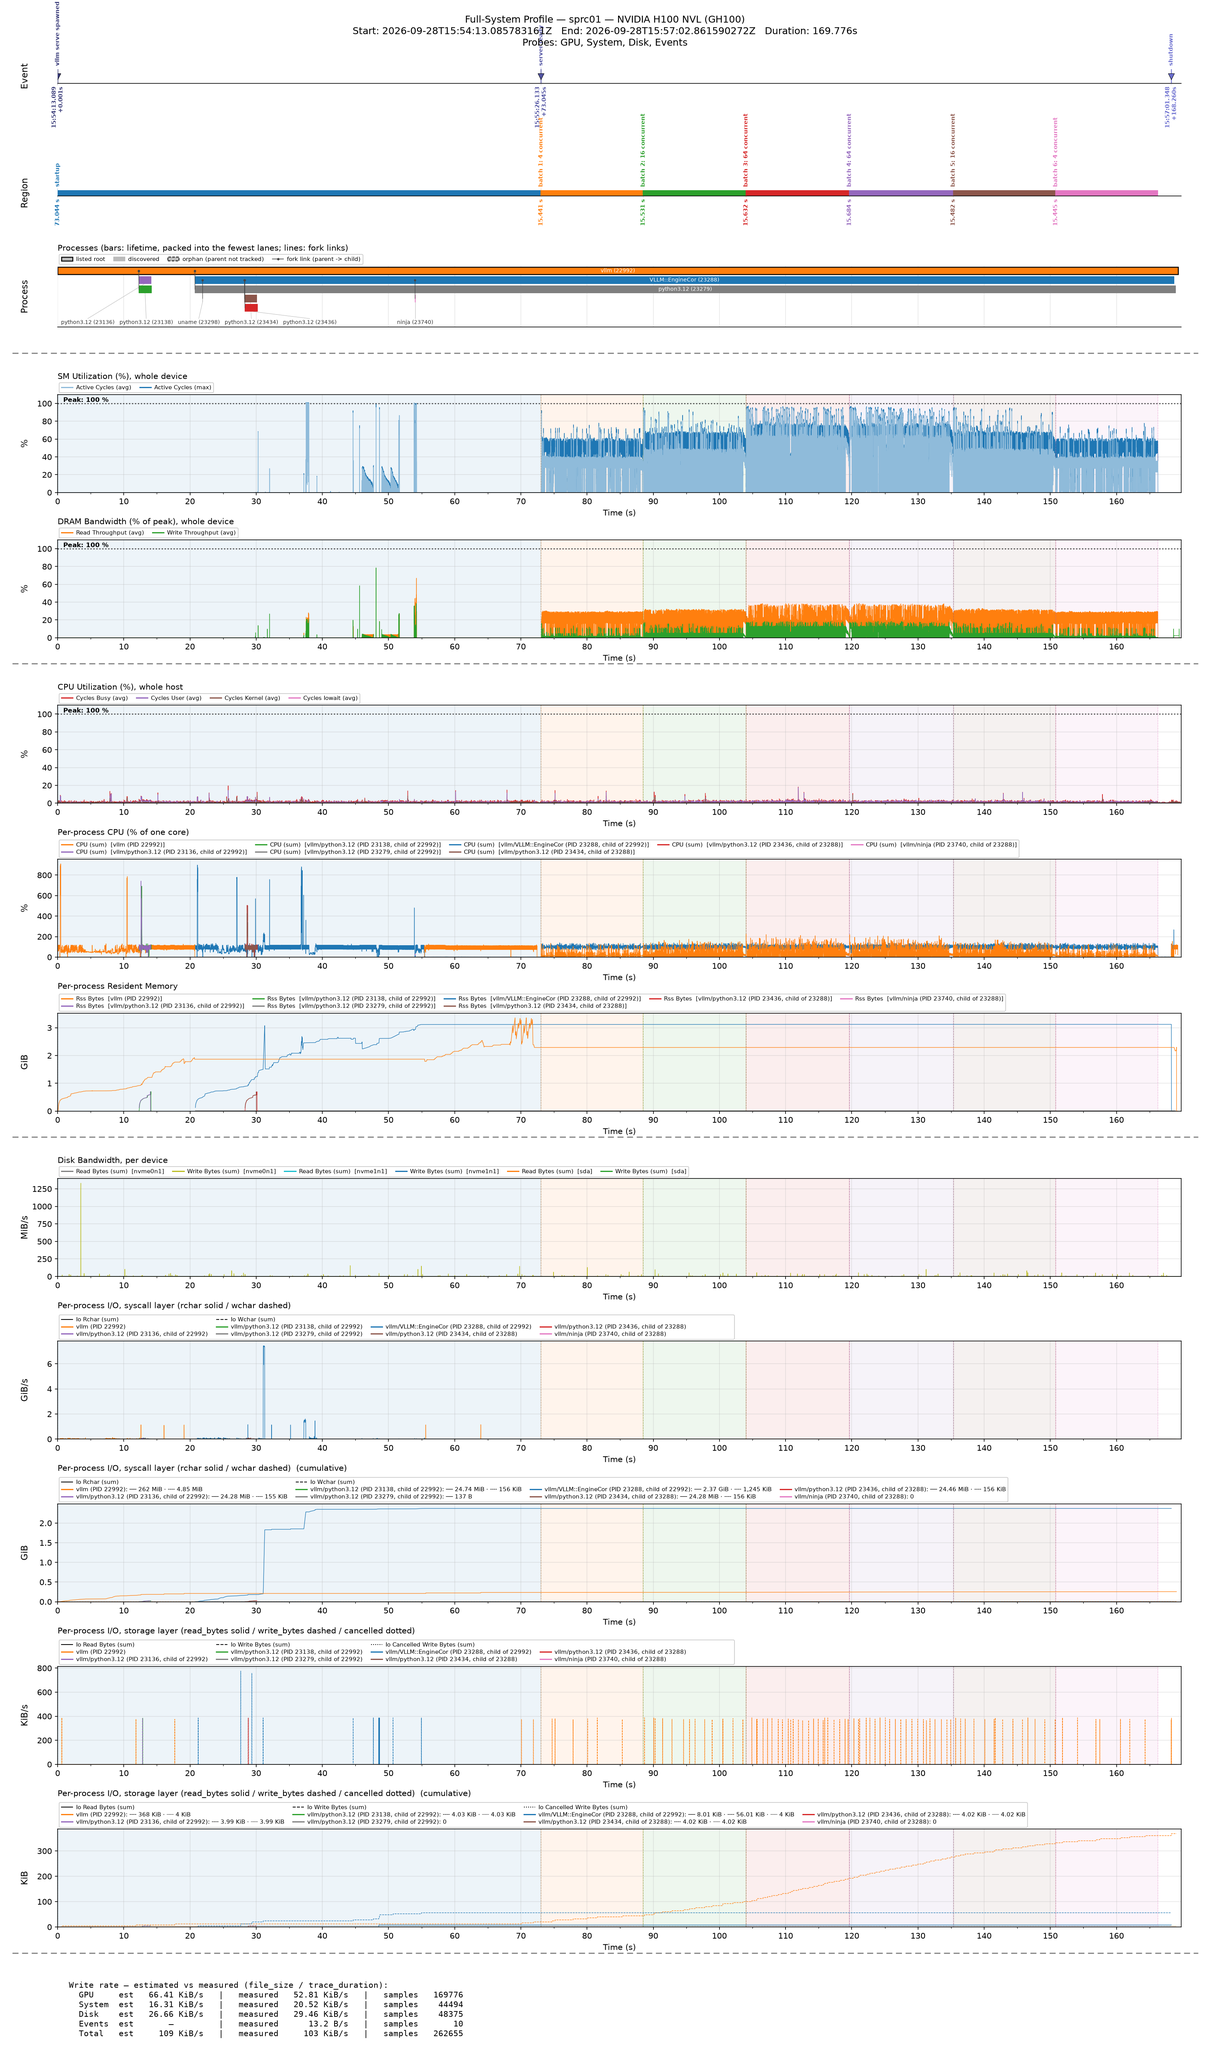
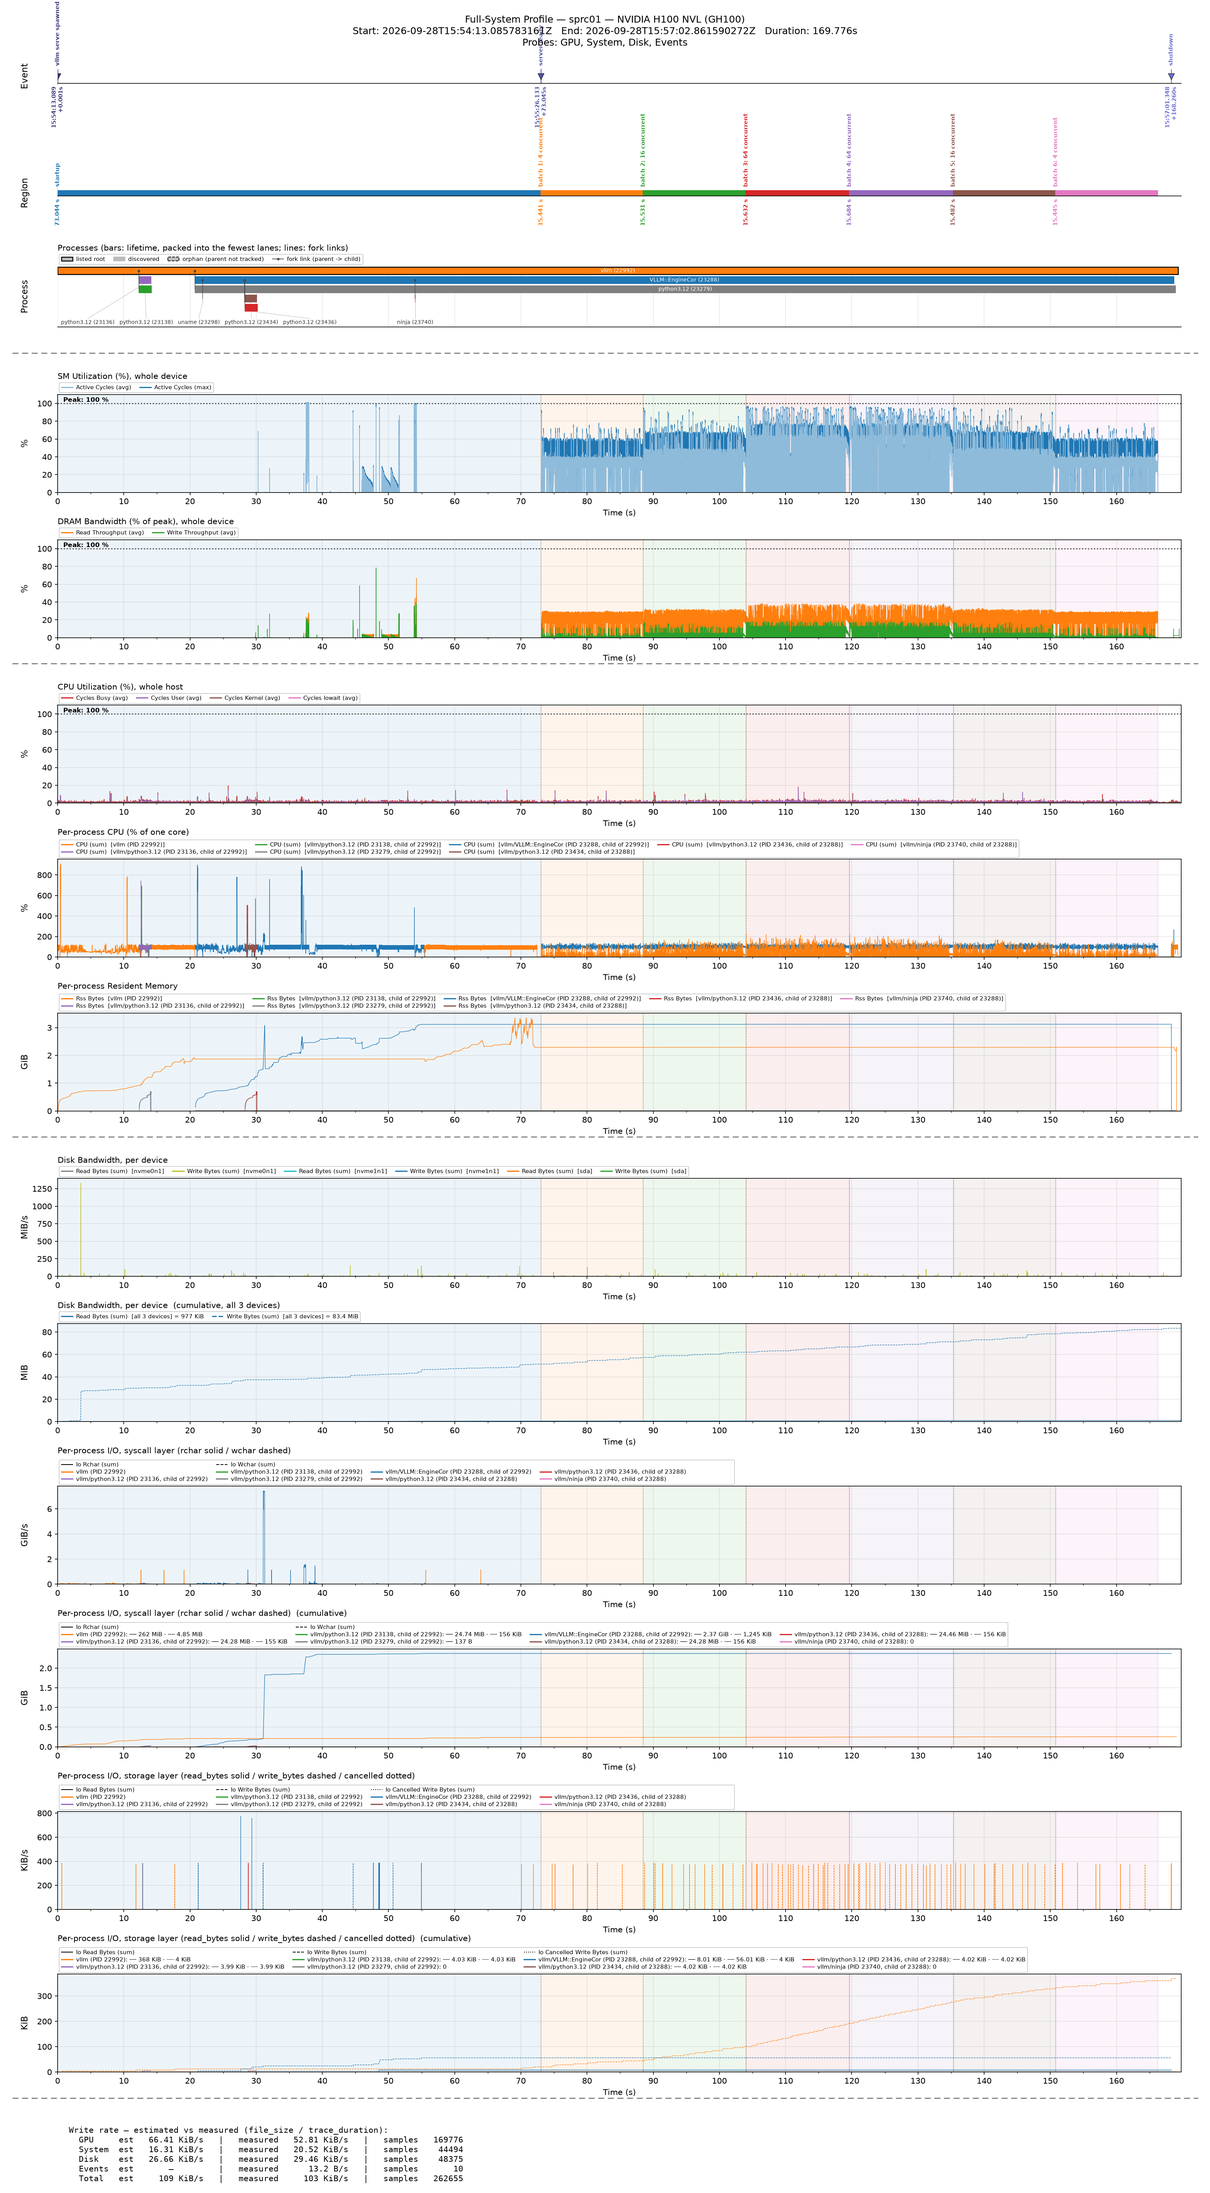
feat(viz): disk bandwidth's cumulative companion, summed over devices
A new panel aggregation, PANEL_AGGREGATION_INTEGRATE_SUM: each metric's
series summed over their instances on the union of their sample times
(panel_legend.aggregate; a series is 0 outside its own span), then
integrated like the other cumulative companions (trapezoid, the byte
unit rule): one line per metric, one hue, told apart by line style,
run totals in the legend, titled "(cumulative, all N devices)". Both
shipped layouts use it for the disk bandwidth panel (read solid, write
dashed, all devices); the default layout's per-device cumulative
companion is replaced by it. Both renderers. Figures re-rendered.

Claude-Session: https://claude.ai/code/session_01KGtpen56WsVzwjUE2dwvzH

diff --git a/tools/visualize_all.py b/tools/visualize_all.py
@@ -451,13 +451,14 @@ def _plan_legend(panel, series_list: list[metric_layout.ResolvedSeries], kind: s
                  metric_colors: dict | None = None) -> _LegendPlan:
     """Colours and legend entries of one panel (panel_legend.plan); a
     cumulative companion's entries carry its run totals."""
-    if kind == "integrated":
+    if kind in ("integrated", "integrated_sum"):
         cums, _scale_fn, _ylabel = _integrated_axis(panel, series_list, projection)
         p = panel_legend.plan(series_list, projector, projection, pid_color_map,
                               totals={k: float(c[-1]) if c.size else 0.0
                                       for k, (_t, c) in cums.items()},
                               fmt_total=units.fmt_bytes,   # each total in its own unit
-                              metric_colors=metric_colors)
+                              metric_colors=metric_colors,
+                              aggregated=kind == "integrated_sum")
     else:
         p = panel_legend.plan(series_list, projector, projection, pid_color_map,
                               metric_colors=metric_colors)
@@ -596,6 +597,13 @@ def _render_metric_panel(
     ax.xaxis.set_minor_locator(ticker.AutoMinorLocator(2))
 
 
+def _cumulative_suffix(series_list, kind: str) -> str:
+    """'(cumulative)', or '(cumulative, all 6 devices)' for sums."""
+    if kind == "integrated_sum" and series_list:
+        return f"(cumulative, {series_list[0].scope_key})"
+    return "(cumulative)"
+
+
 def _render_integrated_panel(
     ax,
     panel,
@@ -607,8 +615,10 @@ def _render_integrated_panel(
     sample_freq_hz: float = 0.0,
     display_hz: float = 0.0,
     plan: _LegendPlan | None = None,
+    kind: str = "integrated",
 ) -> None:
-    """Companion to _render_metric_panel — plots ∫ y dt of each series.
+    """Companion to _render_metric_panel — plots ∫ y dt of each series
+    (kind "integrated_sum": of each metric summed over its instances).
 
     Uses the panel's source unit (descriptor.unit, possibly overridden
     by panel.unit_override) and looks up the integrated unit in
@@ -620,7 +630,7 @@ def _render_integrated_panel(
     if plan is None:
         plan = _plan_legend(panel, series_list, "integrated", projector, projection,
                             pid_color_map, _axes_width_pt(ax))
-    title = _panel_title(panel, series_list) + "  (cumulative)"
+    title = _panel_title(panel, series_list) + "  " + _cumulative_suffix(series_list, kind)
     ax.set_title(title, fontsize=10, loc="left", pad=plan.height_pt or None)
     ax.grid(True, alpha=0.3)
 
@@ -999,9 +1009,10 @@ def _write_legend_file(out_path: Path, png_path: Path,
     lines.append("")
     for panel, series_list, kind in resolved:
         title = panel.title or _panel_title(panel, series_list)
-        if kind == "integrated":
-            lines.append(f"## {title}  (cumulative)")
-            lines.append("  (companion panel — ∫ y dt of the entries above)")
+        if kind in ("integrated", "integrated_sum"):
+            lines.append(f"## {title}  {_cumulative_suffix(series_list, kind)}")
+            lines.append("  (companion panel — ∫ y dt of the entries above"
+                         + (", summed over their instances)" if kind == "integrated_sum" else ")"))
             lines.append("")
             continue
         lines.append(f"## {title}")
@@ -1277,7 +1288,8 @@ def build_figure(metadata, *, catalog=None, panel_layout=None,
             _log(f"  skip panel {panel.title!r}  (no matching series)")
             continue
         resolved.append((panel, series, "metric"))
-        if panel.aggregation == panels_pb.PANEL_AGGREGATION_INTEGRATE:
+        if panel.aggregation in (panels_pb.PANEL_AGGREGATION_INTEGRATE,
+                                 panels_pb.PANEL_AGGREGATION_INTEGRATE_SUM):
             src_unit = (panel.unit_override
                         if panel.unit_override != mc_pb.UNIT_UNSPECIFIED
                         else series[0].descriptor.unit)
@@ -1285,6 +1297,12 @@ def build_figure(metadata, *, catalog=None, panel_layout=None,
                 _log(f"  panel {panel.title!r}: aggregation INTEGRATE set "
                      f"but source unit {src_unit} has no integrated unit "
                      "mapping — skipping companion panel")
+            elif panel.aggregation == panels_pb.PANEL_AGGREGATION_INTEGRATE_SUM:
+                # Summed over instances first: series of their own.
+                sums, sum_proj = panel_legend.aggregate(series, proj)
+                proj.update(sum_proj)
+                if sums:
+                    resolved.append((panel, sums, "integrated_sum"))
             else:
                 resolved.append((panel, series, "integrated"))
     if not resolved:
@@ -1406,12 +1424,12 @@ def build_figure(metadata, *, catalog=None, panel_layout=None,
         for ax, (panel, series_list, kind), plan in zip(
                 metric_axes_by_group[group_key], groups[group_key],
                 plans_by_group[group_key]):
-            if kind == "integrated":
+            if kind in ("integrated", "integrated_sum"):
                 _render_integrated_panel(
                     ax, panel, series_list, projector, proj,
                     t0_ns=t0_ns, pid_color_map=pid_color_map,
                     sample_freq_hz=sample_freq_for[group_key],
-                    display_hz=display_hz, plan=plan)
+                    display_hz=display_hz, plan=plan, kind=kind)
                 continue
             _render_metric_panel(
                 ax, panel, series_list, projector, proj,

diff --git a/tools/visualize_interactive.py b/tools/visualize_interactive.py
@@ -732,7 +732,8 @@ def _panel_has_cumulative_companion(panel,
     warning) for non-integrable units — visualize_all.py logs the
     skip; here we keep the live-render path quiet since this gets
     called every tick."""
-    if panel.aggregation != panels_pb.PANEL_AGGREGATION_INTEGRATE:
+    if panel.aggregation not in (panels_pb.PANEL_AGGREGATION_INTEGRATE,
+                                 panels_pb.PANEL_AGGREGATION_INTEGRATE_SUM):
         return False
     if not series_list:
         return False
@@ -753,8 +754,10 @@ def _build_cumulative_panel(
     source_hzs: dict[tuple[str, object], float] | None = None,
     pid_colors: dict | None = None,
     metric_colors: dict | None = None,
+    aggregated: bool = False,
 ) -> tuple:
-    """Bokeh equivalent of visualize_all._render_integrated_panel.
+    """Bokeh equivalent of visualize_all._render_integrated_panel
+    (aggregated: the series are panel_legend.aggregate() sums).
 
     Returns (figure, cds_by_key) — same shape as _build_panel so the
     static / live machinery treats it like a regular panel for layout
@@ -795,7 +798,8 @@ def _build_cumulative_panel(
 
     tools, box_zoom, wheel_zoom = _make_plot_tools()
     fig_kwargs = dict(
-        title=f"{base_title}  (cumulative)",
+        title=(f"{base_title}  (cumulative, {series_list[0].scope_key})" if aggregated
+               else f"{base_title}  (cumulative)"),
         x_axis_label="time (s)",
         y_axis_label=ylabel,
         width=1200, frame_height=_FRAME_HEIGHT, frame_width=_FRAME_WIDTH,
@@ -821,7 +825,7 @@ def _build_cumulative_panel(
         series_list, projector, projection, pid_colors or {},
         totals={(s.fqn, s.scope_key): float(c[-1]) if c.size else 0.0 for s, c in full_totals},
         fmt_total=units.fmt_bytes,          # each total in its own unit
-        metric_colors=metric_colors)
+        metric_colors=metric_colors, aggregated=aggregated)
     for series, ts_ns, cum in cumulatives:
         key = (series.fqn, series.scope_key)
         time_s = (ts_ns.astype(np.int64) - t0_ns) / 1e9
@@ -1586,15 +1590,20 @@ def _build_static_document(
         # unsmoothed `proj` so the integrated total is faithful; the
         # display-only decimation happens inside the builder.
         if _panel_has_cumulative_companion(panel, series):
+            cum_series, cum_proj = series, proj
+            summed = panel.aggregation == panels_pb.PANEL_AGGREGATION_INTEGRATE_SUM
+            if summed:           # each metric summed over its instances first
+                cum_series, sums = panel_legend.aggregate(series, proj)
+                cum_proj = {**proj, **sums}
             source_hzs = {
                 (s.fqn, s.scope_key):
                     sample_freqs.get(projector.fqn_to_probe.get(s.fqn, ""), 0)
-                for s in series
+                for s in cum_series
             }
             cum_fig, _ = _build_cumulative_panel(
-                panel, series, projector, proj, t0_ns, x_range=shared_x,
+                panel, cum_series, projector, cum_proj, t0_ns, x_range=shared_x,
                 display_hz=display_hz, source_hzs=source_hzs, pid_colors=pid_colors,
-                metric_colors=metric_colors)
+                metric_colors=metric_colors, aggregated=summed)
             figs.append(cum_fig)
             metric_figs.append(cum_fig)
             panel_figs.append((panel, "cumulative", cum_fig))
@@ -1659,8 +1668,7 @@ def _build_static_document(
     folds: list = []                                   # (fig, button, title)
     folded_panels: list = []
     for panel, kind, fig in panel_figs:
-        title = _panel_title(panel, [s for p2, s in resolved if p2 is panel][0]) \
-            + ("  (cumulative)" if kind == "cumulative" else "")
+        title = fig.title.text                      # the builders' titles
         btn, wrapped = _fold(fig, title)
         folds.append((fig, btn, title))
         folded_panels.append(wrapped)

diff --git a/tools/panel_legend.py b/tools/panel_legend.py
@@ -186,6 +186,33 @@ def metric_color_map(panels) -> dict:
     return out
 
 
+def aggregate(series_list, projection: dict) -> tuple[list, dict]:
+    """For PANEL_AGGREGATION_INTEGRATE_SUM: each metric's series summed
+    over their instances on the union of their sample times (a series is
+    0 outside its own span). Returns (series, projection) for the sums,
+    one per metric, keyed (fqn, "all N <instances>")."""
+    by_fqn: dict = {}
+    for s in series_list:
+        if projection[(s.fqn, s.scope_key)][0].size:
+            by_fqn.setdefault(s.fqn, []).append(s)
+    out, proj = [], {}
+    for fqn, ss in by_fqn.items():
+        arrays = [projection[(s.fqn, s.scope_key)] for s in ss]
+        ts = np.unique(np.concatenate([t for t, _v in arrays]))
+        x = ts.astype(np.float64)
+        total = np.zeros(ts.size)
+        for t, v in arrays:
+            total += np.interp(x, t.astype(np.float64), np.nan_to_num(v.astype(np.float64)),
+                               left=0.0, right=0.0)
+        what = {_mc.SCOPE_DEVICE: "devices", _mc.SCOPE_GPU: "GPUs",
+                _mc.SCOPE_PROCESS: "processes"}.get(ss[0].scope, "series")
+        key = f"all {len(ss)} {what}"
+        out.append(metric_layout.ResolvedSeries(fqn=fqn, scope=ss[0].scope, scope_key=key,
+                                                descriptor=ss[0].descriptor))
+        proj[(fqn, key)] = (ts, total)
+    return out, proj
+
+
 def _distinct_colors(keys_by_rank: list, colors: dict) -> dict:
     """Colours for a panel's listed legend keys (most active first), each
     its own: a key whose colour an earlier one already has gets the first
@@ -225,7 +252,7 @@ class Plan:
 
 def plan(series_list, projector, projection: dict, pid_colors: dict,
          totals: dict | None = None, fmt_total=None,
-         metric_colors: dict | None = None) -> Plan:
+         metric_colors: dict | None = None, aggregated: bool = False) -> Plan:
     """Colours, line styles and legend entries of one panel. A metric
     panel ranks its entries by activity; a cumulative companion, given
     `totals` ((fqn, scope_key) -> run total, full resolution), by those,
@@ -241,6 +268,21 @@ def plan(series_list, projector, projection: dict, pid_colors: dict,
     else:
         amount = {(s.fqn, s.scope_key): activity(*projection[(s.fqn, s.scope_key)])
                   for s in live}
+
+    if aggregated:
+        # Sums over instances (aggregate()): one hue, a line style per
+        # metric, each entry with its total.
+        fqns = list(dict.fromkeys(s.fqn for s in live))
+        styles, entries = {}, []
+        for s in live:
+            k = (s.fqn, s.scope_key)
+            st = fqns.index(s.fqn) % N_METRIC_STYLES
+            styles[k] = (COLORS[0], st, True)
+            label = series_label(s, projector, base=label_bases[k])
+            if cumulative:
+                label += f" = {fmt_total(amount[k])}"
+            entries.append((label, COLORS[0], st, [k]))
+        return Plan(styles, entries, amount)
 
     colors = {}
     color_idx = 0

diff --git a/tests/python/test_viz_disk_sum.py b/tests/python/test_viz_disk_sum.py
@@ -1,0 +1,55 @@
+"""The disk bandwidth panel's cumulative companion
+(PANEL_AGGREGATION_INTEGRATE_SUM): read and write summed over all
+devices, then integrated — two lines, one hue, read solid / write
+dashed, each with its run total. Both renderers."""
+
+import pytest
+
+import viz_trace  # noqa: F401
+import units  # noqa: E402
+
+M = 1024.0 ** 2
+DEVICES = {"nvme0n1": (4 * M, 1 * M), "nvme1n1": (2 * M, 3 * M)}   # B/s, constant
+DUR = 10.0
+# the trace spans DUR s: read 6 MiB/s x 10 s, write 4 MiB/s x 10 s
+WANT = {"Read Bytes": units.fmt_bytes(6 * M * DUR), "Write Bytes": units.fmt_bytes(4 * M * DUR)}
+
+
+def _meta(tmp_path):
+    return viz_trace.write_trace(str(tmp_path / "t"), [viz_trace.proc(10, discovered=False)],
+                                 duration_s=DUR, disk=True, devices=DEVICES)
+
+
+def _check(labels, styles, colors):
+    assert len(labels) == 2, labels
+    for lab in labels:
+        name = "Read Bytes" if "Read" in lab else "Write Bytes"
+        assert "[all 2 devices]" in lab and lab.endswith("= " + WANT[name]), lab
+    assert len(set(colors)) == 1 and len({str(s) for s in styles}) == 2
+
+
+def test_disk_sum_static(tmp_path):
+    matplotlib = pytest.importorskip("matplotlib")
+    matplotlib.use("Agg")
+    import visualize_all
+    r = visualize_all.build_figure(_meta(tmp_path))
+    [ax] = [ax for p, _s, k, ax in r.panel_axes if k == "integrated_sum"]
+    assert ax.get_title(loc="left").endswith("(cumulative, all 2 devices)")
+    leg = ax.get_legend()
+    _check([t.get_text() for t in leg.get_texts()],
+           [h.get_linestyle() for h in leg.legend_handles],
+           [h.get_color() for h in leg.legend_handles])
+    assert [ln.get_linestyle() for ln in ax.get_lines() if hasattr(ln, "_series_key")] \
+        in (["-", "--"], ["--", "-"])
+
+
+def test_disk_sum_bokeh(tmp_path):
+    pytest.importorskip("bokeh")
+    import visualize_interactive
+    doc = visualize_interactive.build_static(_meta(tmp_path))
+    [f] = [f for p, k, f in doc.panel_figs if k == "cumulative" and p.series_glob.startswith("disk__")]
+    items = [it for lg in f.legend for it in lg.items]
+    _check([it.label.value for it in items],
+           [it.renderers[-1].glyph.line_dash for it in items],
+           [it.renderers[-1].glyph.line_color for it in items])
+    assert any("all 2 devices" in b.label for _f, b, _t in doc.folds)

diff --git a/tests/python/viz_trace.py b/tests/python/viz_trace.py
@@ -56,12 +56,16 @@ def proc(pid, ppid=0, comm="p", start_s=0.0, end_s=None, cpu=50.0,
 IO_FQNS = ["proc__io_rchar.sum.per_second", "proc__io_wchar.sum.per_second"]
 
 
+DEV_FQNS = ["disk__read_bytes.sum.per_second", "disk__write_bytes.sum.per_second"]
+
+
 def write_trace(out_dir, procs, duration_s=10.0, regions=(), gpu_fqns=(), gpu_values=None,
-                disk=False):
+                disk=False, devices=None):
     """Write a trace of `procs` (see proc()) over duration_s seconds.
     regions: (name, start_s, end_s). gpu_fqns: GPU metrics to add, each
     a constant: gpu_values[i], else 50. disk: also a Disk trace with each
     process's rchar / wchar rates (cpu x 1 MB/s, cpu x 0.1 MB/s).
+    devices: {name: (read B/s, write B/s)}, constant, in that Disk trace.
     Returns the session_metadata.pb path."""
     os.makedirs(out_dir, exist_ok=True)
     catalog = text_format.Parse(open(CATALOG).read(), metric_catalog_pb2.MetricCatalog())
@@ -101,6 +105,12 @@ def write_trace(out_dir, procs, duration_s=10.0, regions=(), gpu_fqns=(), gpu_va
         dt = disk_metrics_pb2.DiskMetricsTrace()
         dt.header.CopyFrom(tr.header)
         dt.scope_metric_names.add(scope=metric_catalog_pb2.SCOPE_PROCESS, fqns=IO_FQNS)
+        if devices:
+            dt.scope_metric_names.add(scope=metric_catalog_pb2.SCOPE_DEVICE, fqns=DEV_FQNS)
+            for name, (rd, wr) in devices.items():
+                dt.tracked_devices.append(name)
+                for ts in ticks:
+                    dt.device_samples.add(timestamp_ns=ts, device_name=name, values=[rd, wr])
         for tp in tr.tracked_processes:
             dt.tracked_processes.add().CopyFrom(tp)
         for x in tr.process_samples:

diff --git a/docs/tools/README.md b/docs/tools/README.md
@@ -157,6 +157,16 @@ band over the full-colour `.max` one (max ≥ avg, so max shows from avg up
 to max). Series lines are 0.63 pt (the grey "+k more" 0.42 pt; the Bokeh
 page 0.84 / 0.56 px).
 
+**Cumulative companions.** A layout panel with `aggregation:
+PANEL_AGGREGATION_INTEGRATE` gets a companion under it plotting ∫ y dt of
+each of its series (trapezoid rule, full-resolution data), run totals in
+the legend. `PANEL_AGGREGATION_INTEGRATE_SUM` first sums each metric over
+its instances (all devices, GPUs or processes, on the union of their
+sample times) and integrates the sums: one line per metric in one hue,
+told apart by line style — the disk bandwidth panel's companion in both
+shipped layouts is read (solid) and write (dashed) summed over every
+traced device, titled `(cumulative, all N devices)`.
+
 **Byte units.** Every bytes and bytes/s axis — rates, gauges and
 cumulative panels, in both renderers — takes its unit from the largest
 value actually plotted on it (after any smoothing or decimation asked
